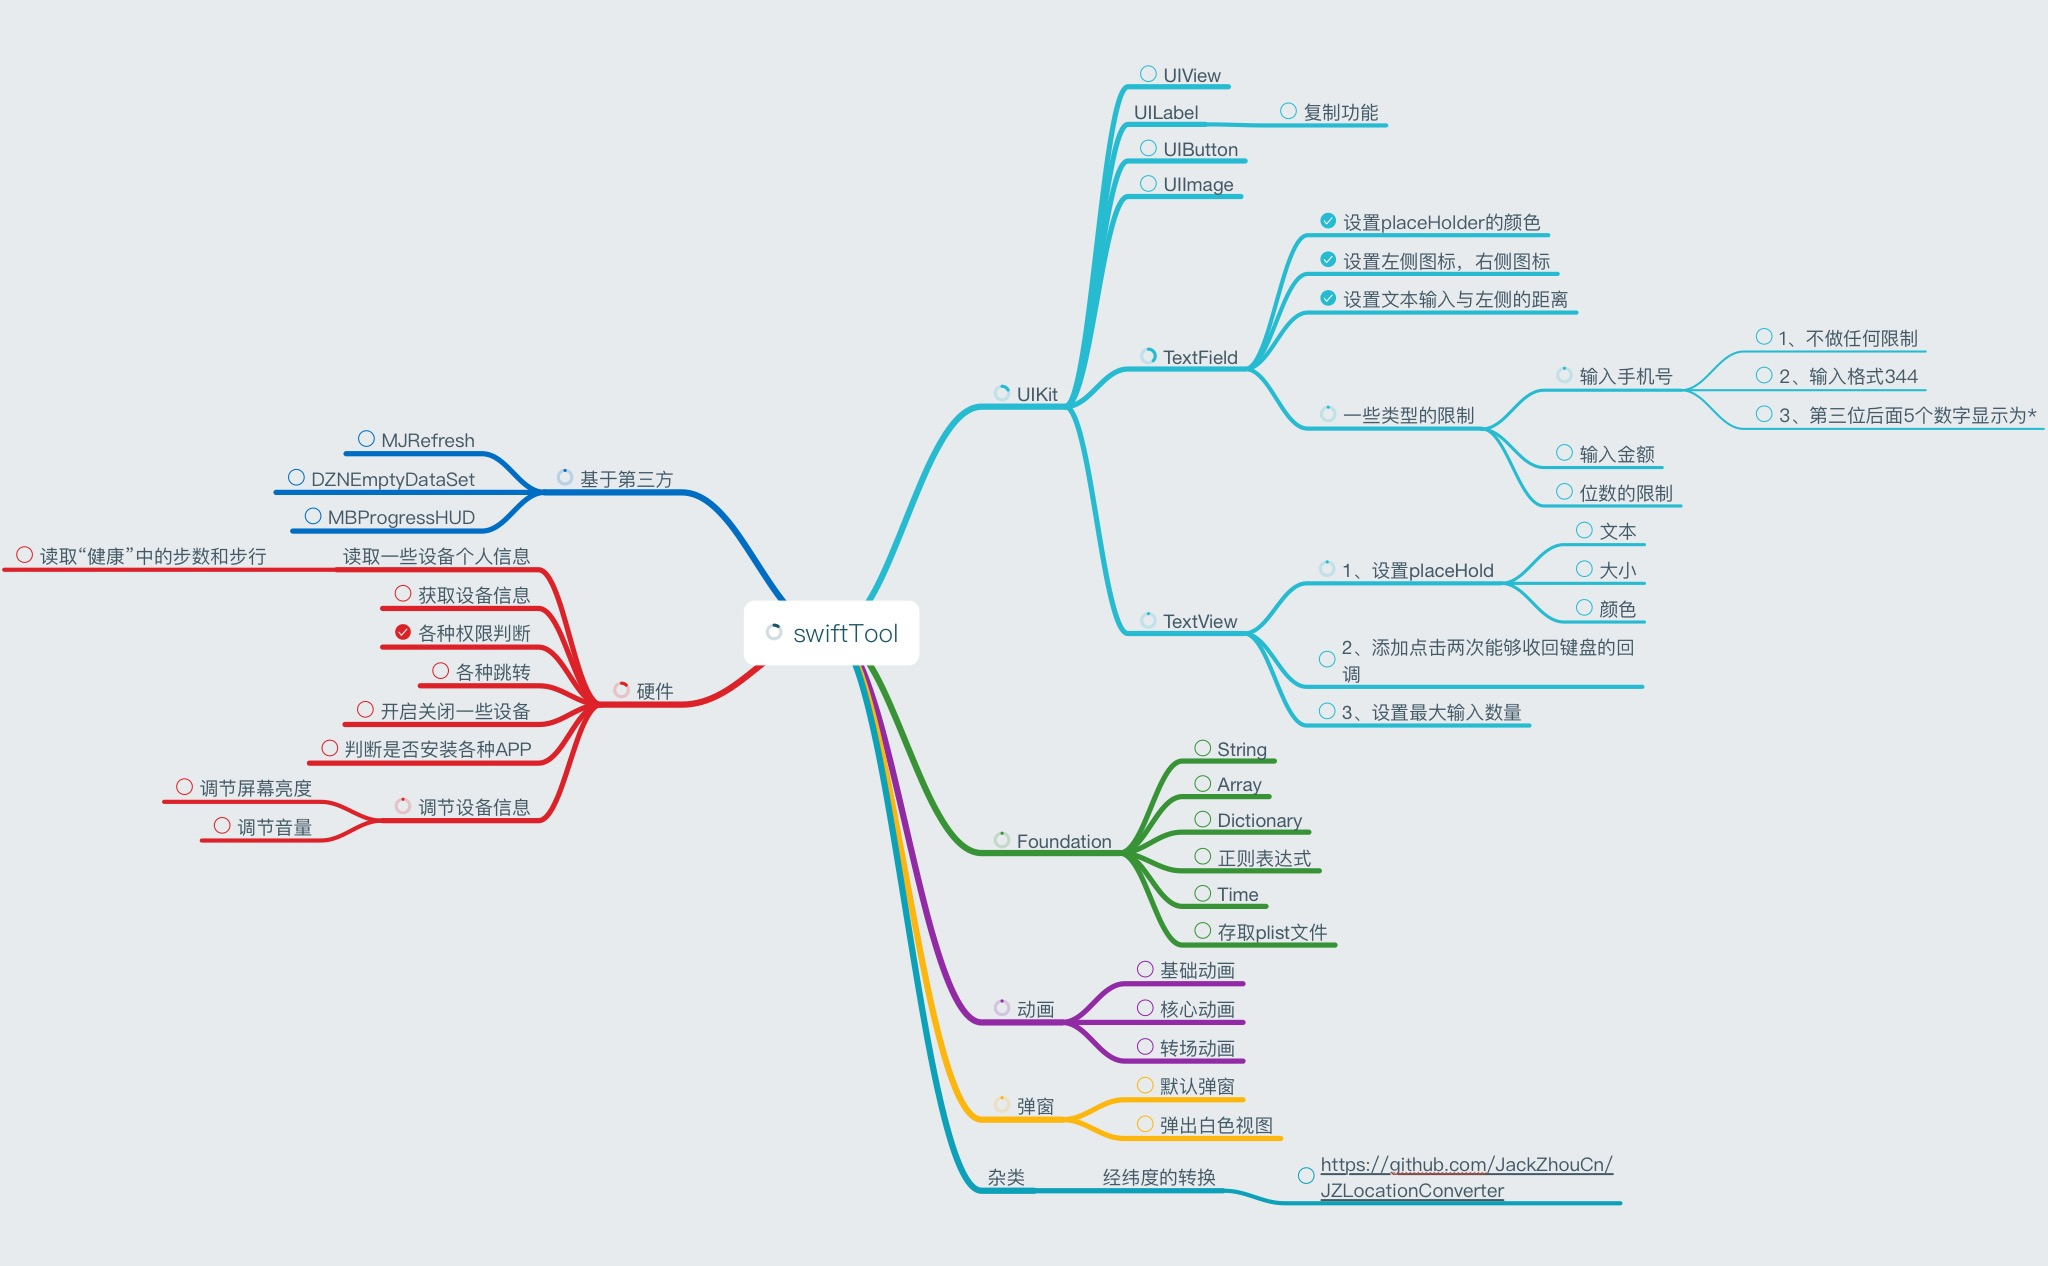
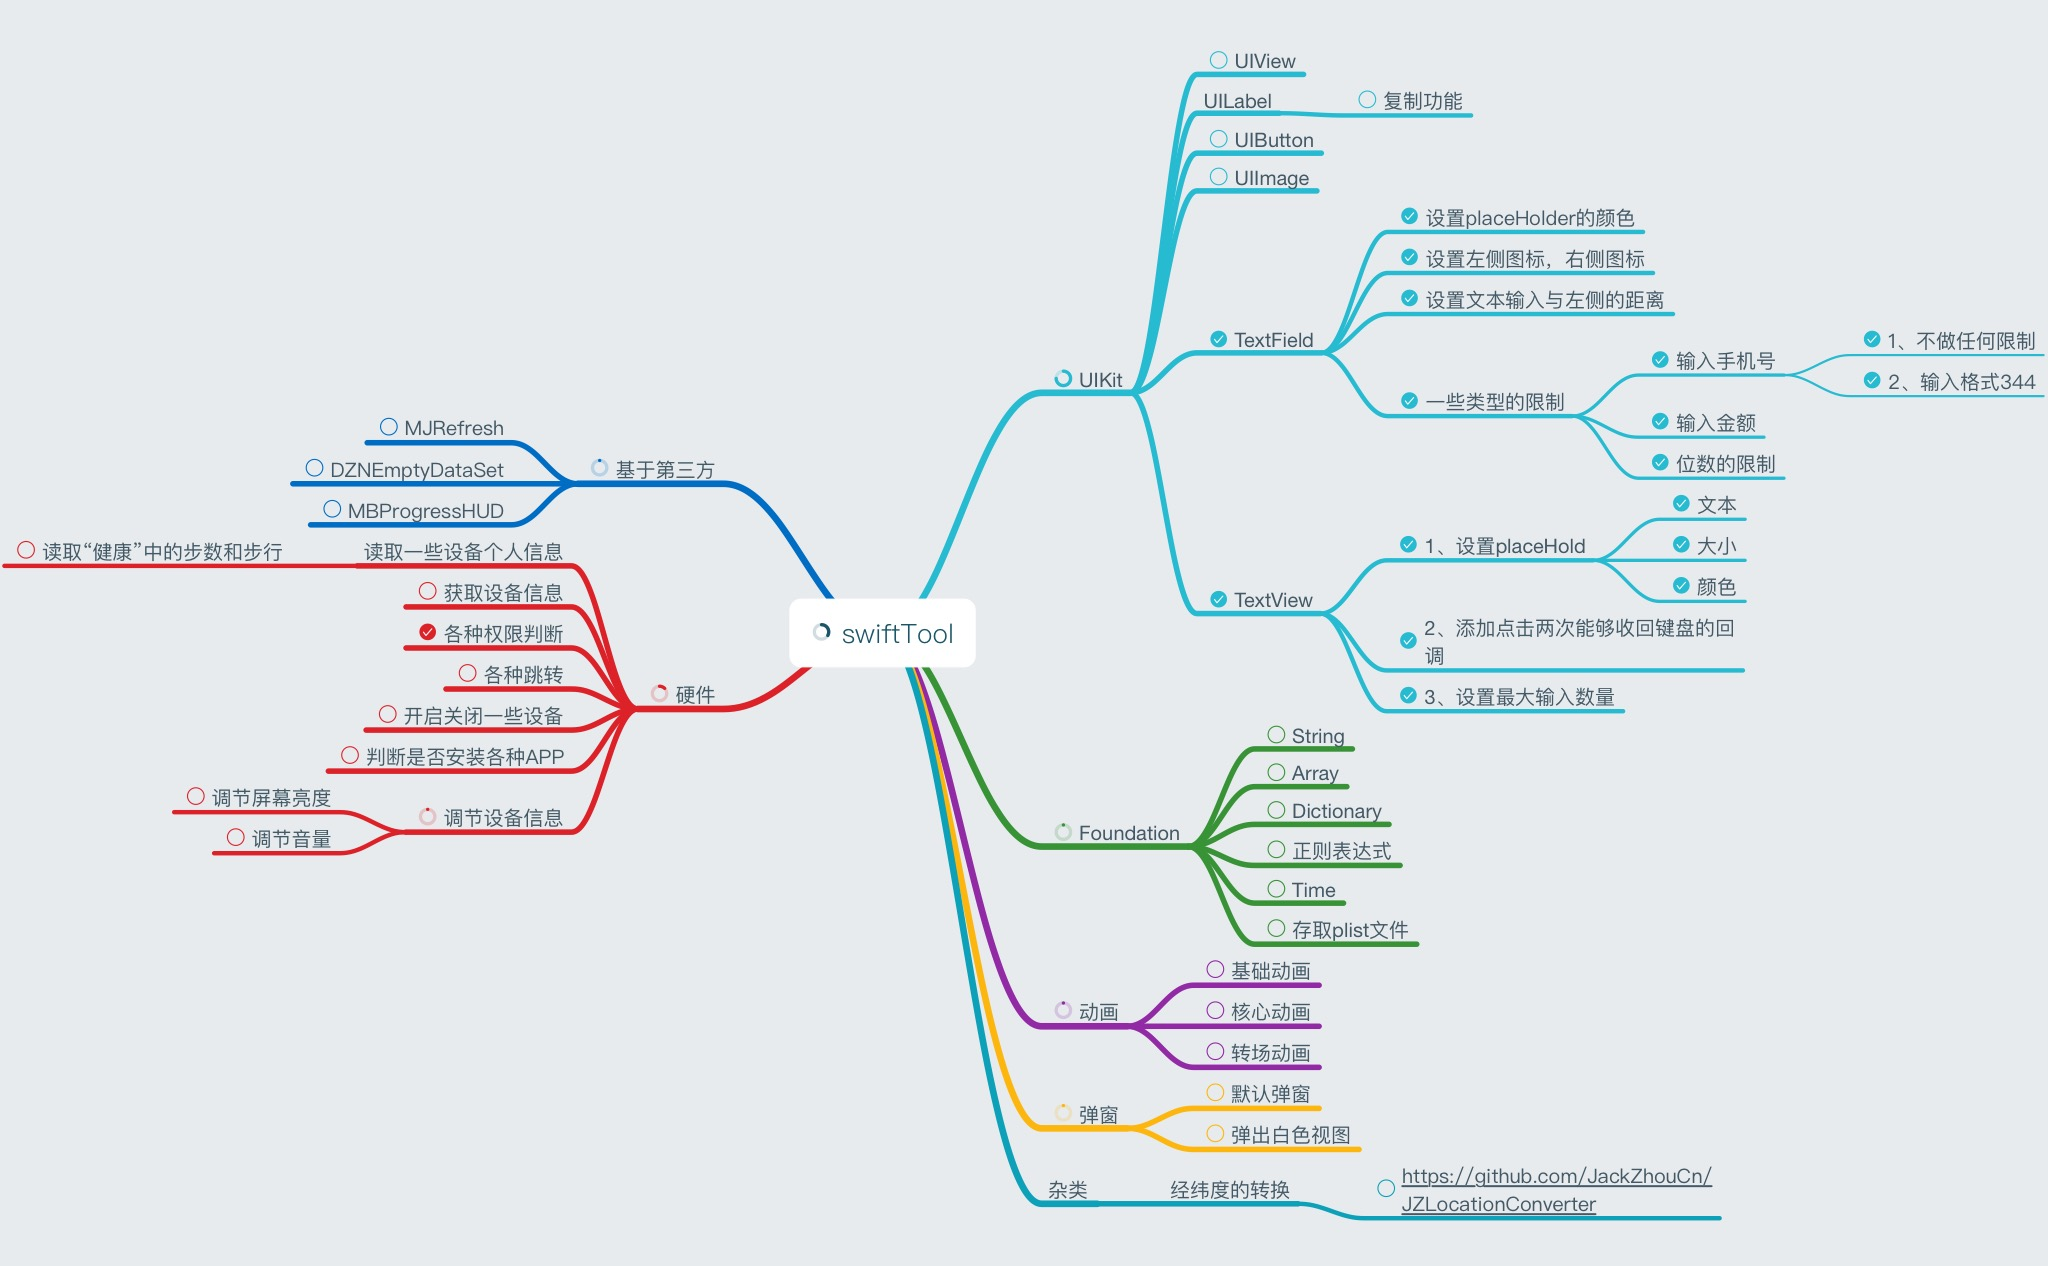
添加UITextView扩展

Changed region(s): [[0.0, 0.0308, 1.0, 0.9858]]

diff --git a/SwiftToolTest/SwiftToolTest/SwiftTool/UiKit/JHTextView.swift b/SwiftToolTest/SwiftToolTest/SwiftTool/UiKit/JHTextView.swift
@@ -1,0 +1,195 @@
+//
+//  JHTextView.swift
+//  SwiftToolTest
+//
+//  Created by yunna on 2018/5/10.
+//  Copyright © 2018年 yunna. All rights reserved.
+//
+
+import UIKit
+
+class JHTextView: UITextView {
+    //MARK:-- 属性 --
+    ///点击两下键盘消失
+    var tapTwiceDisapper: Bool = false{
+        didSet{
+            let tap = UITapGestureRecognizer(target: self, action: #selector(tapTwiceDisapperEvent))
+            tap.numberOfTapsRequired = 2
+            self.addGestureRecognizer(tap)
+            
+        }
+    }
+    ///最大允许输入文本输入量
+    var MaxCount: Int = 0
+    ///设置placeHolder
+    var placeHolder: String = ""
+    ///设置placeHolder的颜色
+    var placeHolderColor: UIColor = UIColor.gray
+  
+   
+    //MARK: -- 初始化 --
+    override init(frame: CGRect, textContainer: NSTextContainer?) {
+        super.init(frame: frame, textContainer: textContainer)
+         NotificationCenter.default.addObserver(self, selector: #selector(textDidChange), name: .UITextViewTextDidChange, object: self)
+    }
+    required init?(coder aDecoder: NSCoder) {
+        super.init(coder: aDecoder)
+         NotificationCenter.default.addObserver(self, selector: #selector(textDidChange), name: .UITextViewTextDidChange, object: self)
+    }
+   /// 初始化
+   ///
+   /// - Parameters:
+   ///   - placeHolder: placeHolder
+   ///   - placeHolderColor: placeHolderColor
+   ///   - MaxCount: 限制数量
+   convenience init(placeHolder:String?, placeHolderColor:UIColor?,MaxCount:Int?) {
+        self.init(frame: .zero)
+        self.placeHolder = placeHolder ?? ""
+        self.placeHolderColor = placeHolderColor ?? UIColor.gray
+        self.MaxCount = MaxCount ?? 0
+         NotificationCenter.default.addObserver(self, selector: #selector(textDidChange), name: .UITextViewTextDidChange, object: self)
+    }
+    deinit {
+        NotificationCenter.default.removeObserver(self)
+    }
+  
+}
+
+//MARK:-- 方法 --
+extension JHTextView{
+    //文本改变
+    @objc func textDidChange(){
+        self.delegate?.textViewDidChange!(self)
+        self.setNeedsDisplay()
+    }
+    //给textView添加点击事件
+    @objc func tapTwiceDisapperEvent(){
+        if self.tapTwiceDisapper == true {
+            self.resignFirstResponder()
+        }
+    }
+    
+    //绘制
+    override func draw(_ rect: CGRect) {
+        //绘制placeHolder
+        drawPlaceHolder(rect)
+        //绘制文本限制数量
+        drawMaxCountText(rect)
+    }
+
+    //绘制placeHolder
+    func drawPlaceHolder(_ rect: CGRect)  {
+        guard !self.hasText else {
+            return
+        }
+        let attrs = NSMutableDictionary.init()
+        attrs.setValue(self.font, forKey: NSAttributedStringKey.font.rawValue)
+        attrs.setValue(self.placeHolderColor, forKey: NSAttributedStringKey.foregroundColor.rawValue)
+        let x:CGFloat  = 8.0
+        let y:CGFloat  = 8.0
+        let widht  = rect.size.width - 2 * x
+        let height  = rect.size.height  - 2 * y
+        let tempRect = CGRect.init(x: x, y: y, width:widht, height: height)
+        self.placeHolder.draw(in: tempRect, withAttributes:attrs as? [NSAttributedStringKey : Any])
+    }
+    
+    //绘制文本限制数量
+    func drawMaxCountText(_ rect: CGRect)  {
+        guard self.MaxCount > 1 else {
+            return
+        }
+        //数量限制
+        if text.count >= MaxCount {
+            text = stringByReplacing(textString: text, index: MaxCount, length: text.count-MaxCount, replacText: "")
+        }
+        
+        //文本显示
+        let limitText = "\(text.count)" + "/" + "\(self.MaxCount)"
+        let limitFont = self.font ?? UIFont.systemFont(ofSize: 15)
+        
+        let attrs = NSMutableDictionary.init()
+        attrs.setValue(self.textColor, forKey: NSAttributedStringKey.foregroundColor.rawValue)
+        attrs.setValue(limitFont, forKey: NSAttributedStringKey.font.rawValue)
+        //计算文本宽度
+        let size = CGSize(width:CGFloat.greatestFiniteMagnitude, height:0)
+        let limitRect = limitText.boundingRect(with: size, options:.usesLineFragmentOrigin, attributes: [NSAttributedStringKey.font : limitFont], context:nil)
+        let width:CGFloat = limitRect.size.width + 10
+        let height:CGFloat = 30
+        let tempRect = CGRect.init(x: rect.size.width - width, y: rect.size.height - height, width:width, height: height)
+        limitText.draw(in: tempRect, withAttributes:attrs as? [NSAttributedStringKey : Any])
+  
+    }
+    
+    
+    //字符串的替换
+    func stringByReplacing(textString:String,index:Int,length:Int,replacText:String) -> String {
+        var TEXT = textString
+        let startIndex = textString.index(textString.startIndex, offsetBy: index)
+        TEXT.replaceSubrange(startIndex..<TEXT.index(startIndex, offsetBy: length), with: replacText)
+        
+        return TEXT
+    }
+    
+}
+
+
+
+
+
+
+
+
+
+
+
+
+
+
+
+
+
+
+
+
+
+
+
+
+
+
+
+
+
+
+
+
+
+
+
+
+
+
+
+
+
+
+
+
+
+
+
+
+
+
+
+
+
+
+
+
+
+
+
+
+
+

diff --git a/SwiftToolTest/SwiftToolTest/TableViewController.swift b/SwiftToolTest/SwiftToolTest/TableViewController.swift
@@ -72,30 +72,20 @@ class TableViewController: UITableViewController {
     }
  
     override func tableView(_ tableView: UITableView, didSelectRowAt indexPath: IndexPath) {
-       
-        let vc = TextFieldController()
-        self.navigationController?.pushViewController(vc, animated: true)
         
-        return
-        
-         
         let GModel = self.dataList[indexPath.section] as! groupModel
         let model = GModel.detailArr[indexPath.row] as! Model
         
         let nameSpace = Bundle.main.infoDictionary?["CFBundleName"] as? String ?? ""
-        guard let cls = NSClassFromString(nameSpace + "." + model.title) as? UIViewController.Type else {
-            print("************类 生成失败**************")
+        guard let cls = NSClassFromString(nameSpace + "." + model.className) as? UIViewController.Type else {
             return
         }
         // 通过得到的class类型创建对象
         let vcClass = cls.init()
-   
         vcClass.view.backgroundColor = UIColor.white
         vcClass.title = model.title
         self.navigationController?.pushViewController(vcClass, animated: true)
-        
-        
-        
+ 
     }
   
 

diff --git a/SwiftToolTest/SwiftToolTest/Uikit/TextViewController.swift b/SwiftToolTest/SwiftToolTest/Uikit/TextViewController.swift
@@ -1,0 +1,46 @@
+//
+//  TextViewController.swift
+//  SwiftToolTest
+//
+//  Created by yunna on 2018/5/10.
+//  Copyright © 2018年 yunna. All rights reserved.
+//
+
+import UIKit
+
+class TextViewController: UIViewController {
+
+    @IBOutlet weak var TV1: JHTextView!
+    
+    override func viewDidLoad() {
+        super.viewDidLoad()
+        TV1.placeHolder = "我是placeHolder"
+        TV1.placeHolderColor = UIColor.red
+        TV1.font = UIFont.systemFont(ofSize: 20)
+        TV1.MaxCount = 10
+        TV1.tapTwiceDisapper = true
+        
+    }
+
+   
+}
+
+
+
+
+
+
+
+
+
+
+
+
+
+
+
+
+
+
+
+

diff --git a/SwiftToolTest/SwiftToolTest/SwiftTool/UiKit/UITextField+JHExtension.swift b/SwiftToolTest/SwiftToolTest/SwiftTool/UiKit/UITextField+JHExtension.swift
@@ -2,7 +2,6 @@
 //  UITextField+JHExtension.swift
 //  SwiftToolTest
 //
-//  Created by yunna on 2018/5/8.
 //  Copyright © 2018年 yunna. All rights reserved.
 //
 
@@ -234,6 +233,8 @@ extension UITextField{
             return  objc_getAssociatedObject(self, RunTimeTextFieldKey.moneyType!) as? Bool
         }
     }
+    
+    
     
     
     

diff --git a/README.md b/README.md
@@ -133,7 +133,12 @@ case MobileSpecial = "MobileSpecial"
 }
  
  
- 
+  ### UITextView
+  我在自定义的`JHTextView`中添加了4个常用属性
+  - 1、tapTwiceDisapper 点击两下键盘消失
+  - 2、MaxCount。 最大允许输入文本输入量
+  - 3、设置placeHolder
+  - 4、设置placeHolder的颜色
  
  
  
